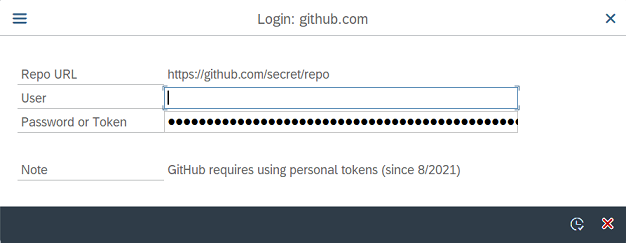
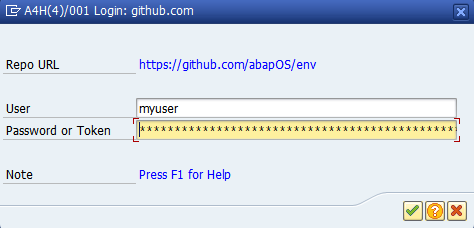
Update docs about authentication

diff --git a/docs/guide-authentication.md b/docs/guide-authentication.md
@@ -4,28 +4,49 @@ category: online projects
 order: 70
 ---
 
-Online projects may require authentication to create branches or commits on the remote or even fetch the content in case of private repositories. Since abapGit uses git over HTTP the authentication mechanism is Basic Authentication (RFC 2617) using a combination of username and password or username and token (GitHub requires using personal tokens since 8/2021). If the remote requires authentication for an action a popup will appear to enable the user to provide the necessary data. Once authentication is successful the session remains intact until abapGit is restarted.
+Online projects may require authentication to create branches or commits on the remote or even fetch the content in case of private repositories. Since abapGit uses git over HTTP the authentication mechanism is Basic Authentication (RFC 2617) using a combination of username and password or username and token (see below). If the remote requires authentication for an action, a popup will appear to enable the user to provide the necessary login details. Once authentication is successful the session remains intact until you exit or restart abapGit.
 
 ![Authentication dialog](img/auth_dialog.png)
 
-Note: Apparently, SAP ABAP supports only RFC 2617 for Basic Authentication and *not* RFC 7617. Therefore, you have to use ASCII characters only for your repository passwords (including extended ASCII, hex 20 to FF, https://en.wikipedia.org/wiki/ISO/IEC_8859-1). The Euro symbol, for example, is not included since it's Unicode U+20AC (which would require RFC 7617 and UTF-8 encoding of passwords). SAP has documented this limitation in SAP Notes [1240796](https://launchpad.support.sap.com/#/notes/1240796).
+Note: Apparently, SAP ABAP supports only RFC 2617 for Basic Authentication and *not* RFC 7617. Therefore, you have to use ASCII characters only for your repository passwords (including extended ASCII, hex 20 to FF, https://en.wikipedia.org/wiki/ISO/IEC_8859-1). The Euro symbol, for example, is *not* included since it's Unicode U+20AC (which would require RFC 7617 and UTF-8 encoding of passwords). SAP has documented this limitation in SAP Notes [1240796](https://launchpad.support.sap.com/#/notes/1240796).
 
-## Two factor authentication
+## Token or Two Factor Authentication
 
-Most git hosts allow for two factor authentication. Relevant for abapGit is how to authenticate with 2FA enabled on the command line when using git over HTTP. This is usually done using a token which can be used instead of the normal password. Check the documentation of your git host on how to do this in detail ([GitHub](https://docs.github.com/en/github/authenticating-to-github/accessing-github-using-two-factor-authentication#using-two-factor-authentication-with-the-command-line), [GitLab](https://docs.gitlab.com/ee/user/profile/personal_access_tokens.html), [Bitbucket](https://support.atlassian.com/bitbucket-cloud/docs/app-passwords/), [Azure DevOps](https://docs.microsoft.com/en-us/azure/devops/organizations/accounts/use-personal-access-tokens-to-authenticate)). Note that the username might be different from your normal one when using the token as the password.
+Most git hosts allow for two factor authentication. Relevant for abapGit is how to authenticate with 2FA enabled on the command line when using git over HTTP. This is usually done using a token instead of the normal password. Check the documentation of your git host on how to do this (see links below). Note that the username might be different from your normal one when using the token as the password.
 
-## Using a password manager
+- [GitHub](https://docs.github.com/en/github/authenticating-to-github/accessing-github-using-two-factor-authentication#using-two-factor-authentication-with-the-command-line): username / token or oauth / token
+- [GitLab](https://docs.gitlab.com/ee/user/profile/personal_access_tokens.html): oauth / token
+- [Bitbucket](https://support.atlassian.com/bitbucket-cloud/docs/app-passwords/): username / app password (Settings > Account settings > Username, not E-mail)
+- [Azure DevOps](https://docs.microsoft.com/en-us/azure/devops/organizations/accounts/use-personal-access-tokens-to-authenticate): username / token
+- [AWS CodeCommit](https://docs.aws.amazon.com/codecommit/latest/userguide/setting-up-gc.html): generated username / password
+
+## Using a Password Manager
 
 To store passwords or tokens you might want to use a password manager. To enable autofill you can match the window title of the entry to the following pattern:
 
 `NPL(*)/001 Login: github.com`
 
-Note the part `NPL(*)/001` only appears if you have `Show system name in taskbar button` enabled in the SAP GUI options.
+Note the part `NPL(*)/001` only appears if you have `Show system name in taskbar button` enabled in the SAP GUI options:
 
-## Using a custom authentication mechanism
+![SAPGUI Options for Taskbar](img/sapgui_options_taskbar.png)
 
-You can use the exit `CREATE_HTTP_CLIENT` to implement a different authentication yourself by returning an already authenticated http client instance. See the [exit documentation](ref-exits.html#create_http_client) for examples.
+## Using a Custom Authentication Mechanism
 
-## Security considerations
+You can use the exit `CREATE_HTTP_CLIENT` to implement a different authentication yourself by returning an already authenticated HTTP client instance. See the [exit documentation](ref-exits.html#create_http_client) for examples.
 
-abapGit intentionally does not provide a way to store login data across sessions. This is because SAP systems are multi-user-systems and since abapGit is mostly used by developers on shared development systems who have extensive authorizations any approach to store passwords runs the risk of getting abused. On local single user systems you can easily implement the exit mentioned above to permanently store the login data in a RFC destination. Otherwise a password manager is the recommended approach to store login data. (See discussion in [#3798](https://github.com/abapGit/abapGit/issues/3798))
+## Security Considerations
+
+abapGit intentionally does not provide a way to store login data across sessions. This is because SAP systems are multi-user-systems and since abapGit is mostly used by developers on shared development systems who have extensive authorizations any approach to store passwords runs the risk of getting abused. On local single user systems you can easily implement the exit mentioned above to permanently store the login data in a RFC destination. Otherwise a password manager is the recommended approach to store login data (see discussion in [#3798](https://github.com/abapGit/abapGit/issues/3798).
+
+## Troubleshooting
+
+Authentication issues typically lead to "Unauthorized access. Check your credentials" error (HTTP 401). Here are some areas to check:
+
+- Git Server
+  If your git server is hosted in-house (not publicly accessible), talk to your IT team to understand which connection and login details are required.
+- Connection
+  Check that the connection to the git server works (see [SSL Setup](guide-ssl-setup.html) and [SSL Test](guide-ssl-test.html)). If you have to use a proxy, check that the connection works and maintain the proxy in the [abapGit settings](guide-settings-global.html).
+- Password or Token
+  Verify which login method is required by your git server. Do you need a password or token (see above)? Check that password or token contain only ASCII characters. Special characters are not supported.
+- Token Validity
+  Usually, tokens have an expiry date and a reduced function scope. Check that your token is still valid and has the necessary authorizations for the abapGit features you want to use (repo read/write).

diff --git a/docs/guide-ssl-setup.md b/docs/guide-ssl-setup.md
@@ -125,6 +125,8 @@ Report [ZABAPGIT_TEST_SSL](guide-ssl-test.html) can be used to verify that the c
 
 ### Troubleshooting
 
+Connection issues typically lead to "Access to resource forbidden" (HTTP 403) or "Misdirected Request" (HTTP 421) errors.
+
 1. Go to transaction `SMICM`
 2. Check that ICM is in status "running" (green light)
 3. Select Goto > Services and check that the HTTPS service is active (green checkmark)
